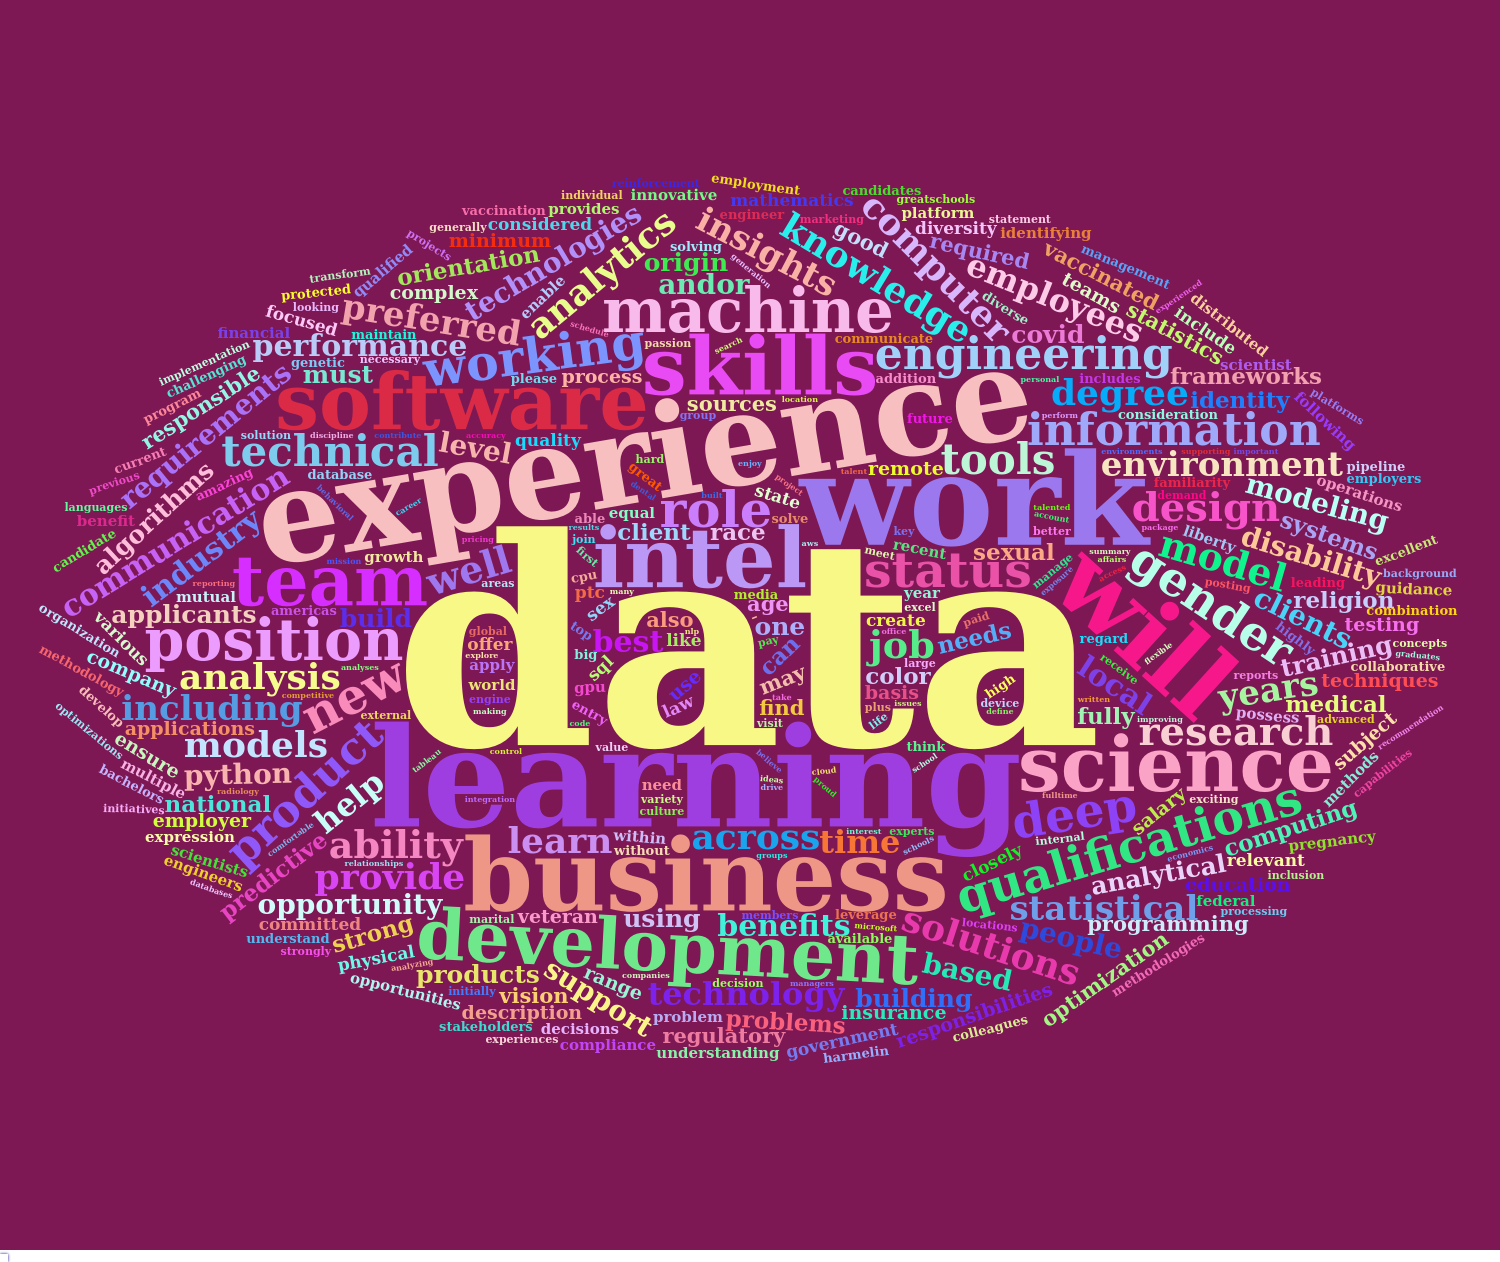
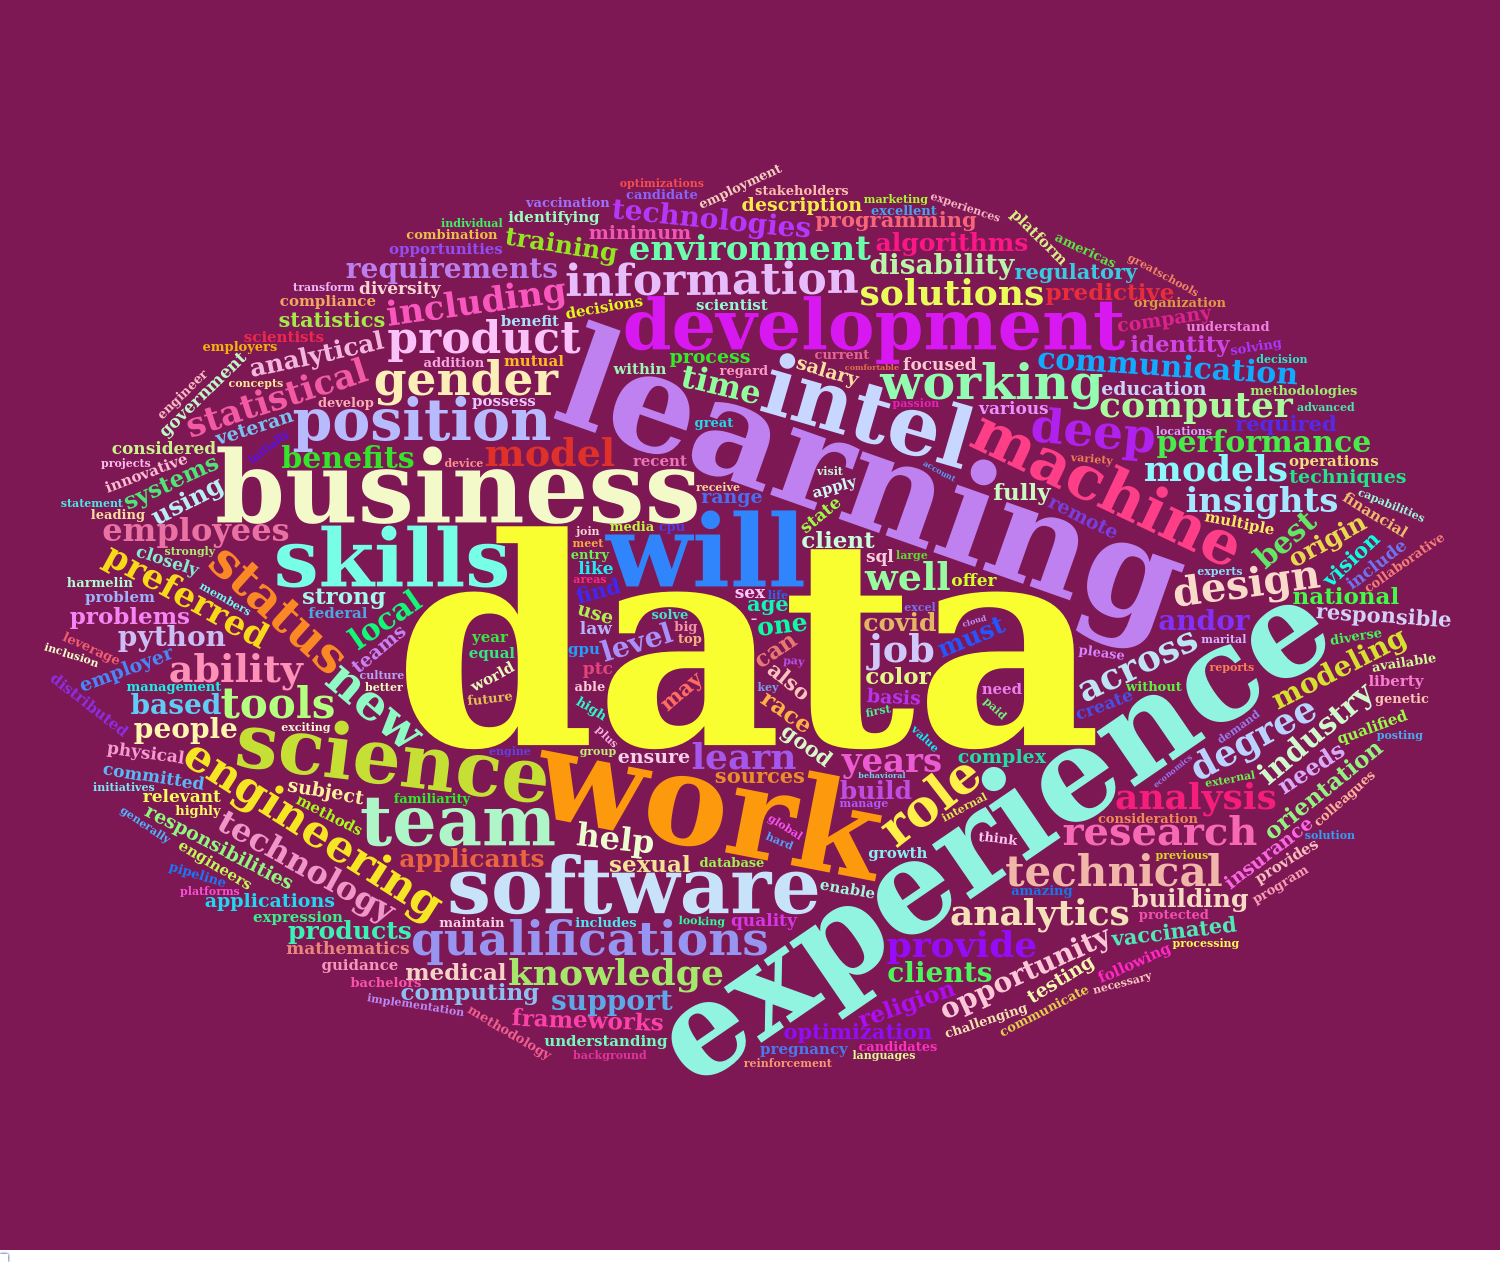
- added portfolio caption to site

diff --git a/docs/index.html b/docs/index.html
@@ -2595,8 +2595,8 @@ window.FlexDashboardComponents.push({
 <div class="knitr-options" data-fig-width="576" data-fig-height="460">
 
 </div>
-<div id="htmlwidget-bf2e337e02b9962a2b2b" style="width:100%;height:auto;" class="datatables html-widget"></div>
-<script type="application/json" data-for="htmlwidget-bf2e337e02b9962a2b2b">{"x":{"style":"bootstrap4","filter":"none","vertical":false,"extensions":["Buttons"],"fillContainer":true,"data":[["1","2","3","4","5","6","7","8","9","10","11","12","13","14","15"],["Associate, Data Science","Data Scientist (Entry-Level)","Data Scientist (Entry-Level)","Data Scientist (Remote) - US","Data Analyst (Entry) - Data Science - R&D - PH - US","Data Scientist - New College Grad","Data Scientist (Machine Learning)","Director, Data Science, Demand Modeling","Machine Learning and Physical Design Research Scientist (Rem...","AI Algorithms Engineer in oneDNN (Remote)","Contract, Machine Learning Fellow","AI Software Solutions Engineer (Remote)","Deep Learning Software Engineer (Remote)","Software Engineer - AI/MLOps","Statistician / Statistical Data Analyst (Entry Level)"],["ENGINE Group","GreatSchools","Harmelin Media","AlphaSights","Bayer","Wealthfront","Decision Spot","Liberty Mutual Insurance","Intel","Intel","PTC THERAPEUTICS","Intel","Intel","Liberty Mutual Insurance","Rangam Consultants Inc."],["Remote in Cincinnati, OH 45202","Remote in Oakland, CA 94612","Remote","Remote in New York, NY","Remote in Indianola, PA 15051","Remote in Palo Alto, CA 94301","Remote in Chicago, IL","+4 locationsRemote","Remote in San Diego, CA 92129","Remote in Hillsboro, OR 97124","+1 locationRemote","Remote in Santa Clara, CA 95052","Remote in Santa Clara, CA 95052","Remote","Remote"],[true,true,true,true,false,false,false,false,false,false,false,false,false,false,false],[3,3,2,1,0,0,0,0,0,0,0,0,0,0,0],["<a href='https://www.indeed.com/rc/clk?jk=b4367c5f637428dc&fccid=75dda2c94eeffc53&vjs=3'>https://www.indeed.com/rc/clk?jk=b4367c5f637428dc&fccid=75dda2c94eeffc53&vjs=3<\/a>","<a href='https://www.indeed.com/company/GreatSchools/jobs/Data-Scientist-e30595fa5e797299?fccid=0fda5022ae5c085a&vjs=3'>https://www.indeed.com/company/GreatSchools/jobs/Data-Scientist-e30595fa5e797299?fccid=0fda5022ae5c085a&vjs=3<\/a>","<a href='https://www.indeed.com/company/Harmelin-Media/jobs/Data-Scientist-f27ae1627ee51b8b?fccid=3eb15fbdc135c294&vjs=3'>https://www.indeed.com/company/Harmelin-Media/jobs/Data-Scientist-f27ae1627ee51b8b?fccid=3eb15fbdc135c294&vjs=3<\/a>","<a href='https://www.indeed.com/rc/clk?jk=611b117ddedff2e6&fccid=915837b22fb3a5f0&vjs=3'>https://www.indeed.com/rc/clk?jk=611b117ddedff2e6&fccid=915837b22fb3a5f0&vjs=3<\/a>","<a href='https://www.indeed.com/rc/clk?jk=e4dd563aa0c5df59&fccid=e08122e0e993cc32&vjs=3'>https://www.indeed.com/rc/clk?jk=e4dd563aa0c5df59&fccid=e08122e0e993cc32&vjs=3<\/a>","<a href='https://www.indeed.com/rc/clk?jk=f436958b48febacf&fccid=90344e51e9e06acc&vjs=3'>https://www.indeed.com/rc/clk?jk=f436958b48febacf&fccid=90344e51e9e06acc&vjs=3<\/a>","<a href='https://www.indeed.com/rc/clk?jk=838de28caafde864&fccid=1643dd6866c4fc47&vjs=3'>https://www.indeed.com/rc/clk?jk=838de28caafde864&fccid=1643dd6866c4fc47&vjs=3<\/a>","<a href='https://www.indeed.com/rc/clk?jk=00c364b50b928f6a&fccid=f33a9750898d12d4&vjs=3'>https://www.indeed.com/rc/clk?jk=00c364b50b928f6a&fccid=f33a9750898d12d4&vjs=3<\/a>","<a href='https://www.indeed.com/rc/clk?jk=58817ff0ff613e49&fccid=936367796261bd6e&vjs=3'>https://www.indeed.com/rc/clk?jk=58817ff0ff613e49&fccid=936367796261bd6e&vjs=3<\/a>","<a href='https://www.indeed.com/rc/clk?jk=2c21e311ba934120&fccid=936367796261bd6e&vjs=3'>https://www.indeed.com/rc/clk?jk=2c21e311ba934120&fccid=936367796261bd6e&vjs=3<\/a>","<a href='https://www.indeed.com/rc/clk?jk=e6c835ec8fb1f2d8&fccid=01b550b2fa839455&vjs=3'>https://www.indeed.com/rc/clk?jk=e6c835ec8fb1f2d8&fccid=01b550b2fa839455&vjs=3<\/a>","<a href='https://www.indeed.com/rc/clk?jk=9497da7537144eb0&fccid=936367796261bd6e&vjs=3'>https://www.indeed.com/rc/clk?jk=9497da7537144eb0&fccid=936367796261bd6e&vjs=3<\/a>","<a href='https://www.indeed.com/rc/clk?jk=5d582ecb34ecfb04&fccid=936367796261bd6e&vjs=3'>https://www.indeed.com/rc/clk?jk=5d582ecb34ecfb04&fccid=936367796261bd6e&vjs=3<\/a>","<a href='https://www.indeed.com/rc/clk?jk=9f13351dae2c176e&fccid=f33a9750898d12d4&vjs=3'>https://www.indeed.com/rc/clk?jk=9f13351dae2c176e&fccid=f33a9750898d12d4&vjs=3<\/a>","<a href='https://www.indeed.com/company/Rangam-Consultants-Inc./jobs/Statistician-f8e26218bfe5eb4c?fccid=5b511f3ebbda9738&vjs=3'>https://www.indeed.com/company/Rangam-Consultants-Inc./jobs/Statistician-f8e26218bfe5eb4c?fccid=5b511f3ebbda9738&vjs=3<\/a>"]],"container":"<table class=\"table table-striped table-hover row-border order-column display fill-container\">\n  <thead>\n    <tr>\n      <th> <\/th>\n      <th>job_title<\/th>\n      <th>company<\/th>\n      <th>location<\/th>\n      <th>hit<\/th>\n      <th>hit_count<\/th>\n      <th>link<\/th>\n    <\/tr>\n  <\/thead>\n<\/table>","options":{"dom":"Btrp","buttons":["copy","csv","excel","pdf","print"],"lengthMenu":[[25,50,75,-1],["25","50","75","All"]],"columnDefs":[{"className":"dt-right","targets":5},{"orderable":false,"targets":0}],"order":[],"autoWidth":false,"orderClasses":false}},"evals":[],"jsHooks":[]}</script>
+<div id="htmlwidget-45babb859c6656272b10" style="width:100%;height:auto;" class="datatables html-widget"></div>
+<script type="application/json" data-for="htmlwidget-45babb859c6656272b10">{"x":{"style":"bootstrap4","filter":"none","vertical":false,"extensions":["Buttons"],"fillContainer":true,"data":[["1","2","3","4","5","6","7","8","9","10","11","12","13","14","15"],["Associate, Data Science","Data Scientist (Entry-Level)","Data Scientist (Entry-Level)","Data Scientist (Remote) - US","Data Analyst (Entry) - Data Science - R&D - PH - US","Data Scientist - New College Grad","Data Scientist (Machine Learning)","Director, Data Science, Demand Modeling","Machine Learning and Physical Design Research Scientist (Rem...","AI Algorithms Engineer in oneDNN (Remote)","Contract, Machine Learning Fellow","AI Software Solutions Engineer (Remote)","Deep Learning Software Engineer (Remote)","Software Engineer - AI/MLOps","Statistician / Statistical Data Analyst (Entry Level)"],["ENGINE Group","GreatSchools","Harmelin Media","AlphaSights","Bayer","Wealthfront","Decision Spot","Liberty Mutual Insurance","Intel","Intel","PTC THERAPEUTICS","Intel","Intel","Liberty Mutual Insurance","Rangam Consultants Inc."],["Remote in Cincinnati, OH 45202","Remote in Oakland, CA 94612","Remote","Remote in New York, NY","Remote in Indianola, PA 15051","Remote in Palo Alto, CA 94301","Remote in Chicago, IL","+4 locationsRemote","Remote in San Diego, CA 92129","Remote in Hillsboro, OR 97124","+1 locationRemote","Remote in Santa Clara, CA 95052","Remote in Santa Clara, CA 95052","Remote","Remote"],[true,true,true,true,false,false,false,false,false,false,false,false,false,false,false],[3,3,2,1,0,0,0,0,0,0,0,0,0,0,0],["<a href='https://www.indeed.com/rc/clk?jk=b4367c5f637428dc&fccid=75dda2c94eeffc53&vjs=3'>https://www.indeed.com/rc/clk?jk=b4367c5f637428dc&fccid=75dda2c94eeffc53&vjs=3<\/a>","<a href='https://www.indeed.com/company/GreatSchools/jobs/Data-Scientist-e30595fa5e797299?fccid=0fda5022ae5c085a&vjs=3'>https://www.indeed.com/company/GreatSchools/jobs/Data-Scientist-e30595fa5e797299?fccid=0fda5022ae5c085a&vjs=3<\/a>","<a href='https://www.indeed.com/company/Harmelin-Media/jobs/Data-Scientist-f27ae1627ee51b8b?fccid=3eb15fbdc135c294&vjs=3'>https://www.indeed.com/company/Harmelin-Media/jobs/Data-Scientist-f27ae1627ee51b8b?fccid=3eb15fbdc135c294&vjs=3<\/a>","<a href='https://www.indeed.com/rc/clk?jk=611b117ddedff2e6&fccid=915837b22fb3a5f0&vjs=3'>https://www.indeed.com/rc/clk?jk=611b117ddedff2e6&fccid=915837b22fb3a5f0&vjs=3<\/a>","<a href='https://www.indeed.com/rc/clk?jk=e4dd563aa0c5df59&fccid=e08122e0e993cc32&vjs=3'>https://www.indeed.com/rc/clk?jk=e4dd563aa0c5df59&fccid=e08122e0e993cc32&vjs=3<\/a>","<a href='https://www.indeed.com/rc/clk?jk=f436958b48febacf&fccid=90344e51e9e06acc&vjs=3'>https://www.indeed.com/rc/clk?jk=f436958b48febacf&fccid=90344e51e9e06acc&vjs=3<\/a>","<a href='https://www.indeed.com/rc/clk?jk=838de28caafde864&fccid=1643dd6866c4fc47&vjs=3'>https://www.indeed.com/rc/clk?jk=838de28caafde864&fccid=1643dd6866c4fc47&vjs=3<\/a>","<a href='https://www.indeed.com/rc/clk?jk=00c364b50b928f6a&fccid=f33a9750898d12d4&vjs=3'>https://www.indeed.com/rc/clk?jk=00c364b50b928f6a&fccid=f33a9750898d12d4&vjs=3<\/a>","<a href='https://www.indeed.com/rc/clk?jk=58817ff0ff613e49&fccid=936367796261bd6e&vjs=3'>https://www.indeed.com/rc/clk?jk=58817ff0ff613e49&fccid=936367796261bd6e&vjs=3<\/a>","<a href='https://www.indeed.com/rc/clk?jk=2c21e311ba934120&fccid=936367796261bd6e&vjs=3'>https://www.indeed.com/rc/clk?jk=2c21e311ba934120&fccid=936367796261bd6e&vjs=3<\/a>","<a href='https://www.indeed.com/rc/clk?jk=e6c835ec8fb1f2d8&fccid=01b550b2fa839455&vjs=3'>https://www.indeed.com/rc/clk?jk=e6c835ec8fb1f2d8&fccid=01b550b2fa839455&vjs=3<\/a>","<a href='https://www.indeed.com/rc/clk?jk=9497da7537144eb0&fccid=936367796261bd6e&vjs=3'>https://www.indeed.com/rc/clk?jk=9497da7537144eb0&fccid=936367796261bd6e&vjs=3<\/a>","<a href='https://www.indeed.com/rc/clk?jk=5d582ecb34ecfb04&fccid=936367796261bd6e&vjs=3'>https://www.indeed.com/rc/clk?jk=5d582ecb34ecfb04&fccid=936367796261bd6e&vjs=3<\/a>","<a href='https://www.indeed.com/rc/clk?jk=9f13351dae2c176e&fccid=f33a9750898d12d4&vjs=3'>https://www.indeed.com/rc/clk?jk=9f13351dae2c176e&fccid=f33a9750898d12d4&vjs=3<\/a>","<a href='https://www.indeed.com/company/Rangam-Consultants-Inc./jobs/Statistician-f8e26218bfe5eb4c?fccid=5b511f3ebbda9738&vjs=3'>https://www.indeed.com/company/Rangam-Consultants-Inc./jobs/Statistician-f8e26218bfe5eb4c?fccid=5b511f3ebbda9738&vjs=3<\/a>"]],"container":"<table class=\"table table-striped table-hover row-border order-column display fill-container\">\n  <thead>\n    <tr>\n      <th> <\/th>\n      <th>job_title<\/th>\n      <th>company<\/th>\n      <th>location<\/th>\n      <th>hit<\/th>\n      <th>hit_count<\/th>\n      <th>link<\/th>\n    <\/tr>\n  <\/thead>\n<\/table>","options":{"dom":"Btrp","buttons":["copy","csv","excel","pdf","print"],"lengthMenu":[[25,50,75,-1],["25","50","75","All"]],"columnDefs":[{"className":"dt-right","targets":5},{"orderable":false,"targets":0}],"order":[],"autoWidth":false,"orderClasses":false}},"evals":[],"jsHooks":[]}</script>
 </div>
 </div>
 <div id="column-1" class="section level2" data-width="280">
@@ -2613,8 +2613,8 @@ window.FlexDashboardComponents.push({
 <div class="knitr-options" data-fig-width="576" data-fig-height="460">
 
 </div>
-<div id="htmlwidget-868039353e596b9f2981" style="width:576px;height:460.8px;" class="gauge html-widget"></div>
-<script type="application/json" data-for="htmlwidget-868039353e596b9f2981">{"x":{"value":27,"min":0,"max":100,"customSectors":[{"lo":80,"hi":100,"color":"success"},{"lo":40,"hi":79,"color":"warning"},{"lo":0,"hi":39,"color":"danger"}],"symbol":"%","label":null,"humanFriendly":true,"humanFriendlyDecimal":1,"href":null},"evals":[],"jsHooks":[]}</script>
+<div id="htmlwidget-5880334849533fa58621" style="width:576px;height:460.8px;" class="gauge html-widget"></div>
+<script type="application/json" data-for="htmlwidget-5880334849533fa58621">{"x":{"value":27,"min":0,"max":100,"customSectors":[{"lo":80,"hi":100,"color":"success"},{"lo":40,"hi":79,"color":"warning"},{"lo":0,"hi":39,"color":"danger"}],"symbol":"%","label":null,"humanFriendly":true,"humanFriendlyDecimal":1,"href":null},"evals":[],"jsHooks":[]}</script>
 </div>
 <div id="job-description-wordcloud" class="section level3">
 <h3>Job Description WordCloud</h3>
@@ -2622,9 +2622,9 @@ window.FlexDashboardComponents.push({
 
 </div>
 <div class="figure">
-<img src="index_files/figure-html/picture-1.png" alt="What are today's buzz words.." width="100%" data-figure-id=fig1 />
+<img src="index_files/figure-html/picture-1.png" alt="ETL project, Author: Peter Boshe https://peterboshe.netlify.app/" width="100%" data-figure-id=fig1 />
 <p class="caption">
-What are today’s buzz words..
+ETL project, Author: Peter Boshe <a href="https://peterboshe.netlify.app/" class="uri">https://peterboshe.netlify.app/</a>
 </p>
 </div>
 </div>
